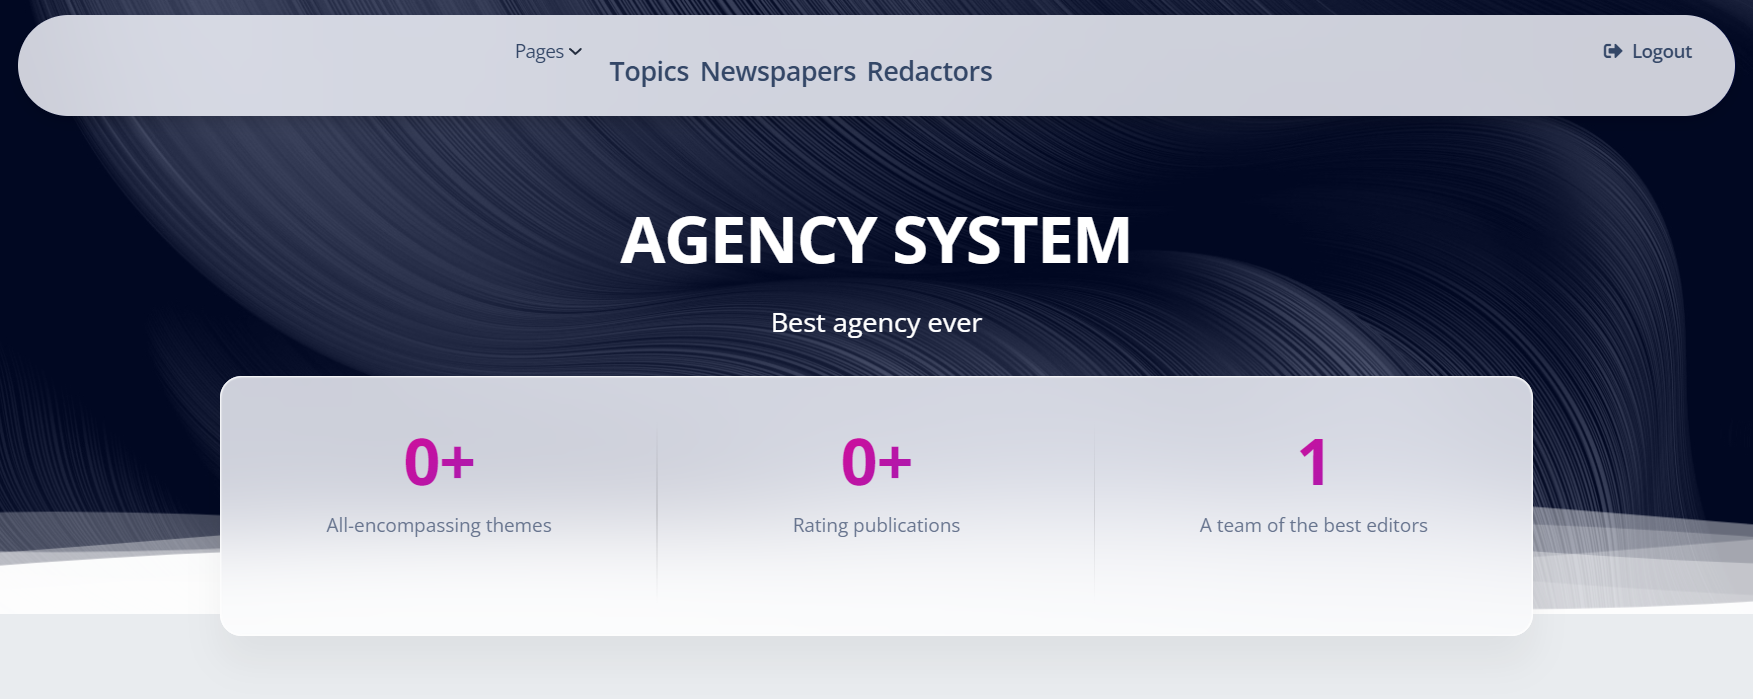
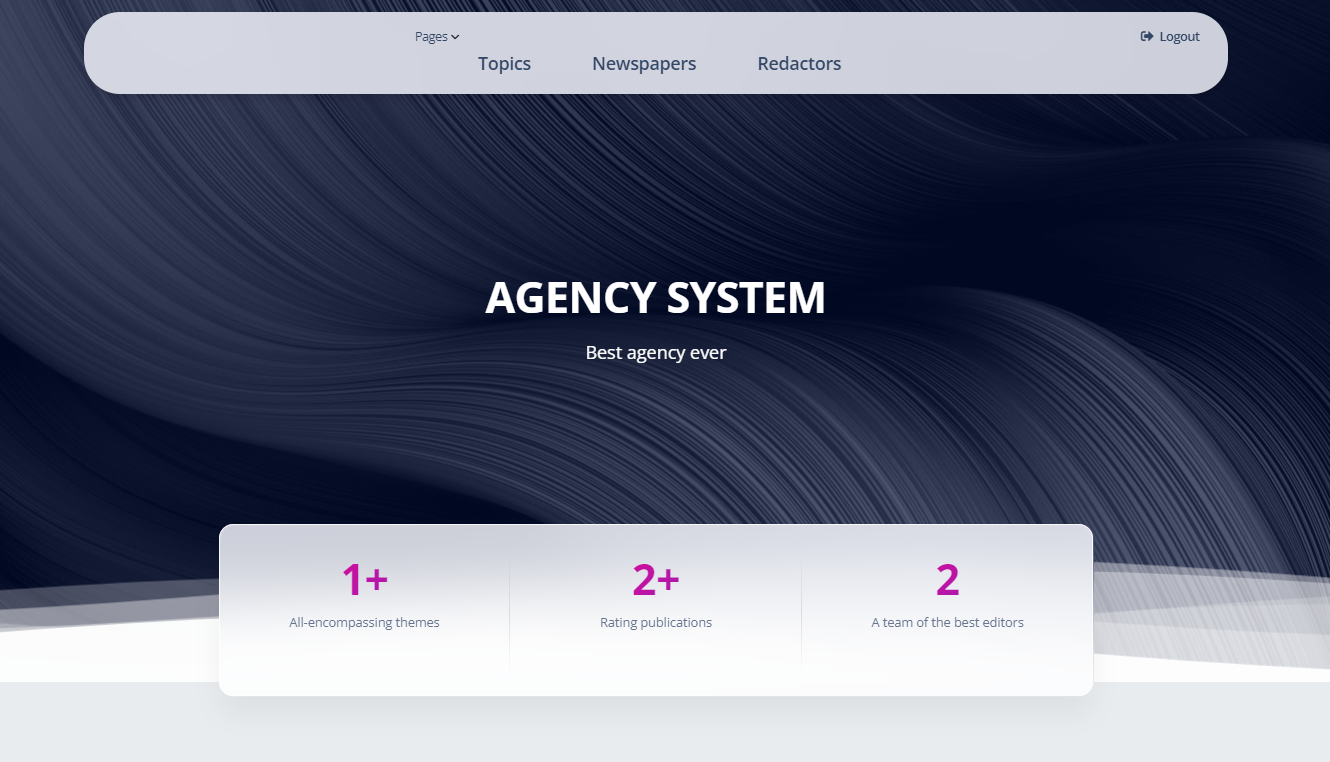
Changes were made to settings.py, README.md, .html files

diff --git a/templates/agency/index2.html b/templates/agency/index2.html
@@ -1,0 +1,78 @@
+{% extends "base.html" %}
+
+{% load static %}
+
+{% block title %} Material Kit 2 by Creative Tim 123 {% endblock title %}
+
+{% block body %} class="index-page bg-gray-200" {% endblock body %}
+
+{% block content %}
+
+<header class="header-2">
+  <div class="page-header min-vh-75 relative" style="background-image: url('{% static 'img/curved-images/curved.jpg' %}')">
+    <div class="container">
+      <div class="row">
+        <div class="col-lg-7 text-center mx-auto">
+          <h1 class="text-white pt-3 mt-n5">
+            AGENCY SYSTEM
+          </h1>
+          <p class="lead text-white mt-3">Best agency ever</p>
+        </div>
+      </div>
+    </div>
+
+    <div class="position-absolute w-100 z-index-1 bottom-0">
+      <svg class="waves" xmlns="http://www.w3.org/2000/svg" xmlns:xlink="http://www.w3.org/1999/xlink" viewBox="0 24 150 40" preserveAspectRatio="none" shape-rendering="auto">
+        <defs>
+          <path id="gentle-wave" d="M-160 44c30 0 58-18 88-18s 58 18 88 18 58-18 88-18 58 18 88 18 v44h-352z" />
+        </defs>
+        <g class="moving-waves">
+          <use xlink:href="#gentle-wave" x="48" y="-1" fill="rgba(255,255,255,0.40" />
+          <use xlink:href="#gentle-wave" x="48" y="3" fill="rgba(255,255,255,0.35)" />
+          <use xlink:href="#gentle-wave" x="48" y="5" fill="rgba(255,255,255,0.25)" />
+          <use xlink:href="#gentle-wave" x="48" y="8" fill="rgba(255,255,255,0.20)" />
+          <use xlink:href="#gentle-wave" x="48" y="13" fill="rgba(255,255,255,0.15)" />
+          <use xlink:href="#gentle-wave" x="48" y="16" fill="rgba(255,255,255,0.95" />
+        </g>
+      </svg>
+    </div>
+  </div>
+</header>
+
+
+<section class="pt-3 pb-4" id="count-stats">
+  <div class="container">
+    <div class="row">
+      <div class="col-lg-9 z-index-2 border-radius-xl mt-n10 mx-auto py-3 blur shadow-blur count-stats-block">
+        <div class="row">
+          <div class="col-md-4 position-relative">
+            <div class="p-3 text-center">
+              <h1 class="text-gradient text-primary"><span id="state1" countTo="99">{{ num_topics }}</span>+</h1>
+
+              <p class="text-sm">All-encompassing themes</p>
+            </div>
+            <hr class="vertical dark">
+          </div>
+          <div class="col-md-4 position-relative">
+            <div class="p-3 text-center">
+              <h1 class="text-gradient text-primary"> <span id="state2" countTo="99">{{ num_newspapers }}</span>+</h1>
+
+              <p class="text-sm">Rating publications</p>
+            </div>
+            <hr class="vertical dark">
+          </div>
+          <div class="col-md-4">
+            <div class="p-3 text-center">
+              <h1 class="text-gradient text-primary" id="state3" countTo="99">{{ num_redactors }}</h1>
+
+              <p class="text-sm">A team of the best editors</p>
+            </div>
+          </div>
+        </div>
+      </div>
+    </div>
+  </div>
+</section>
+
+
+{% endblock content %}

diff --git a/templates/includes/navigation.html b/templates/includes/navigation.html
@@ -55,6 +55,8 @@
                           </svg>
                         </div>
                       </div>
+
+
 {#                      Landing Pages#}
 {#                    </div>#}
 {#                    <a href="/" class="dropdown-item border-radius-md">#}
@@ -745,17 +747,36 @@
 {#                </div>#}
 {#              </li>#}
 
-            <div class="p-1 text-center">
-              <a href="{% url 'agency:topic-list' %}"><h5 class="mt-3">Topics</h5></a>
-            </div>
+          <div class="nav-buttons-container">
 
-            <div class="p-1 text-center">
-              <a href="{% url 'agency:newspaper-list' %}"><h5 class="mt-3">Newspapers</h5></a>
-            </div>
+              <div class="p-1 text-center nav-item-button">
+                <a href="{% url 'agency:topic-list' %}"><h5 class="mt-3">Topics</h5></a>
+              </div>
 
-            <div class="p-1 text-center">
-              <a href="{% url 'agency:redactor-list' %}"><h5 class="mt-3">Redactors</h5></a>
-            </div>
+              <div class="p-1 text-center nav-item-button">
+                <a href="{% url 'agency:newspaper-list' %}"><h5 class="mt-3">Newspapers</h5></a>
+              </div>
+
+              <div class="p-1 text-center nav-item-button">
+                <a href="{% url 'agency:redactor-list' %}"><h5 class="mt-3">Redactors</h5></a>
+              </div>
+          </div>
+
+            <style>
+              /* Custom class to increase horizontal spacing between nav buttons */
+              .nav-buttons-container {
+                display: flex; /* Use flexbox to stretch the buttons horizontally */
+                justify-content: space-between; /* Add equal spacing between the buttons */
+                margin-top: 15px; /* Add some top margin to separate from the "Page" button */
+              }
+
+              /* Custom class for individual nav buttons */
+              .nav-item-button {
+
+              flex: 1; /* This will make the buttons share equal space */
+              margin-right: 60px; /* Adjust the value as per your requirements */
+              }
+            </style>
 
               {% if request.user.is_authenticated %}
               <li class="nav-item ms-lg-auto">

diff --git a/newspaper_agency/settings.py b/newspaper_agency/settings.py
@@ -24,7 +24,7 @@ BASE_DIR = Path(__file__).resolve().parent.parent
 # See https://docs.djangoproject.com/en/4.2/howto/deployment/checklist/
 
 # SECURITY WARNING: keep the secret key used in production secret!
-SECRET_KEY = os.environ.get("DJANGO_SECRET_KEY", "django-insecure-w(uplu9m7hj8%40rxh1&*dnu3uhne45-d9ec7#9h8o=@2u9umc")
+SECRET_KEY = os.environ.get("SECRET_KEY", default="your secret key")
 
 # SECURITY WARNING: don't run with debug turned on in production!
 # DEBUG = os.environ.get("DJANGO_DEBUG", "") != "False"
